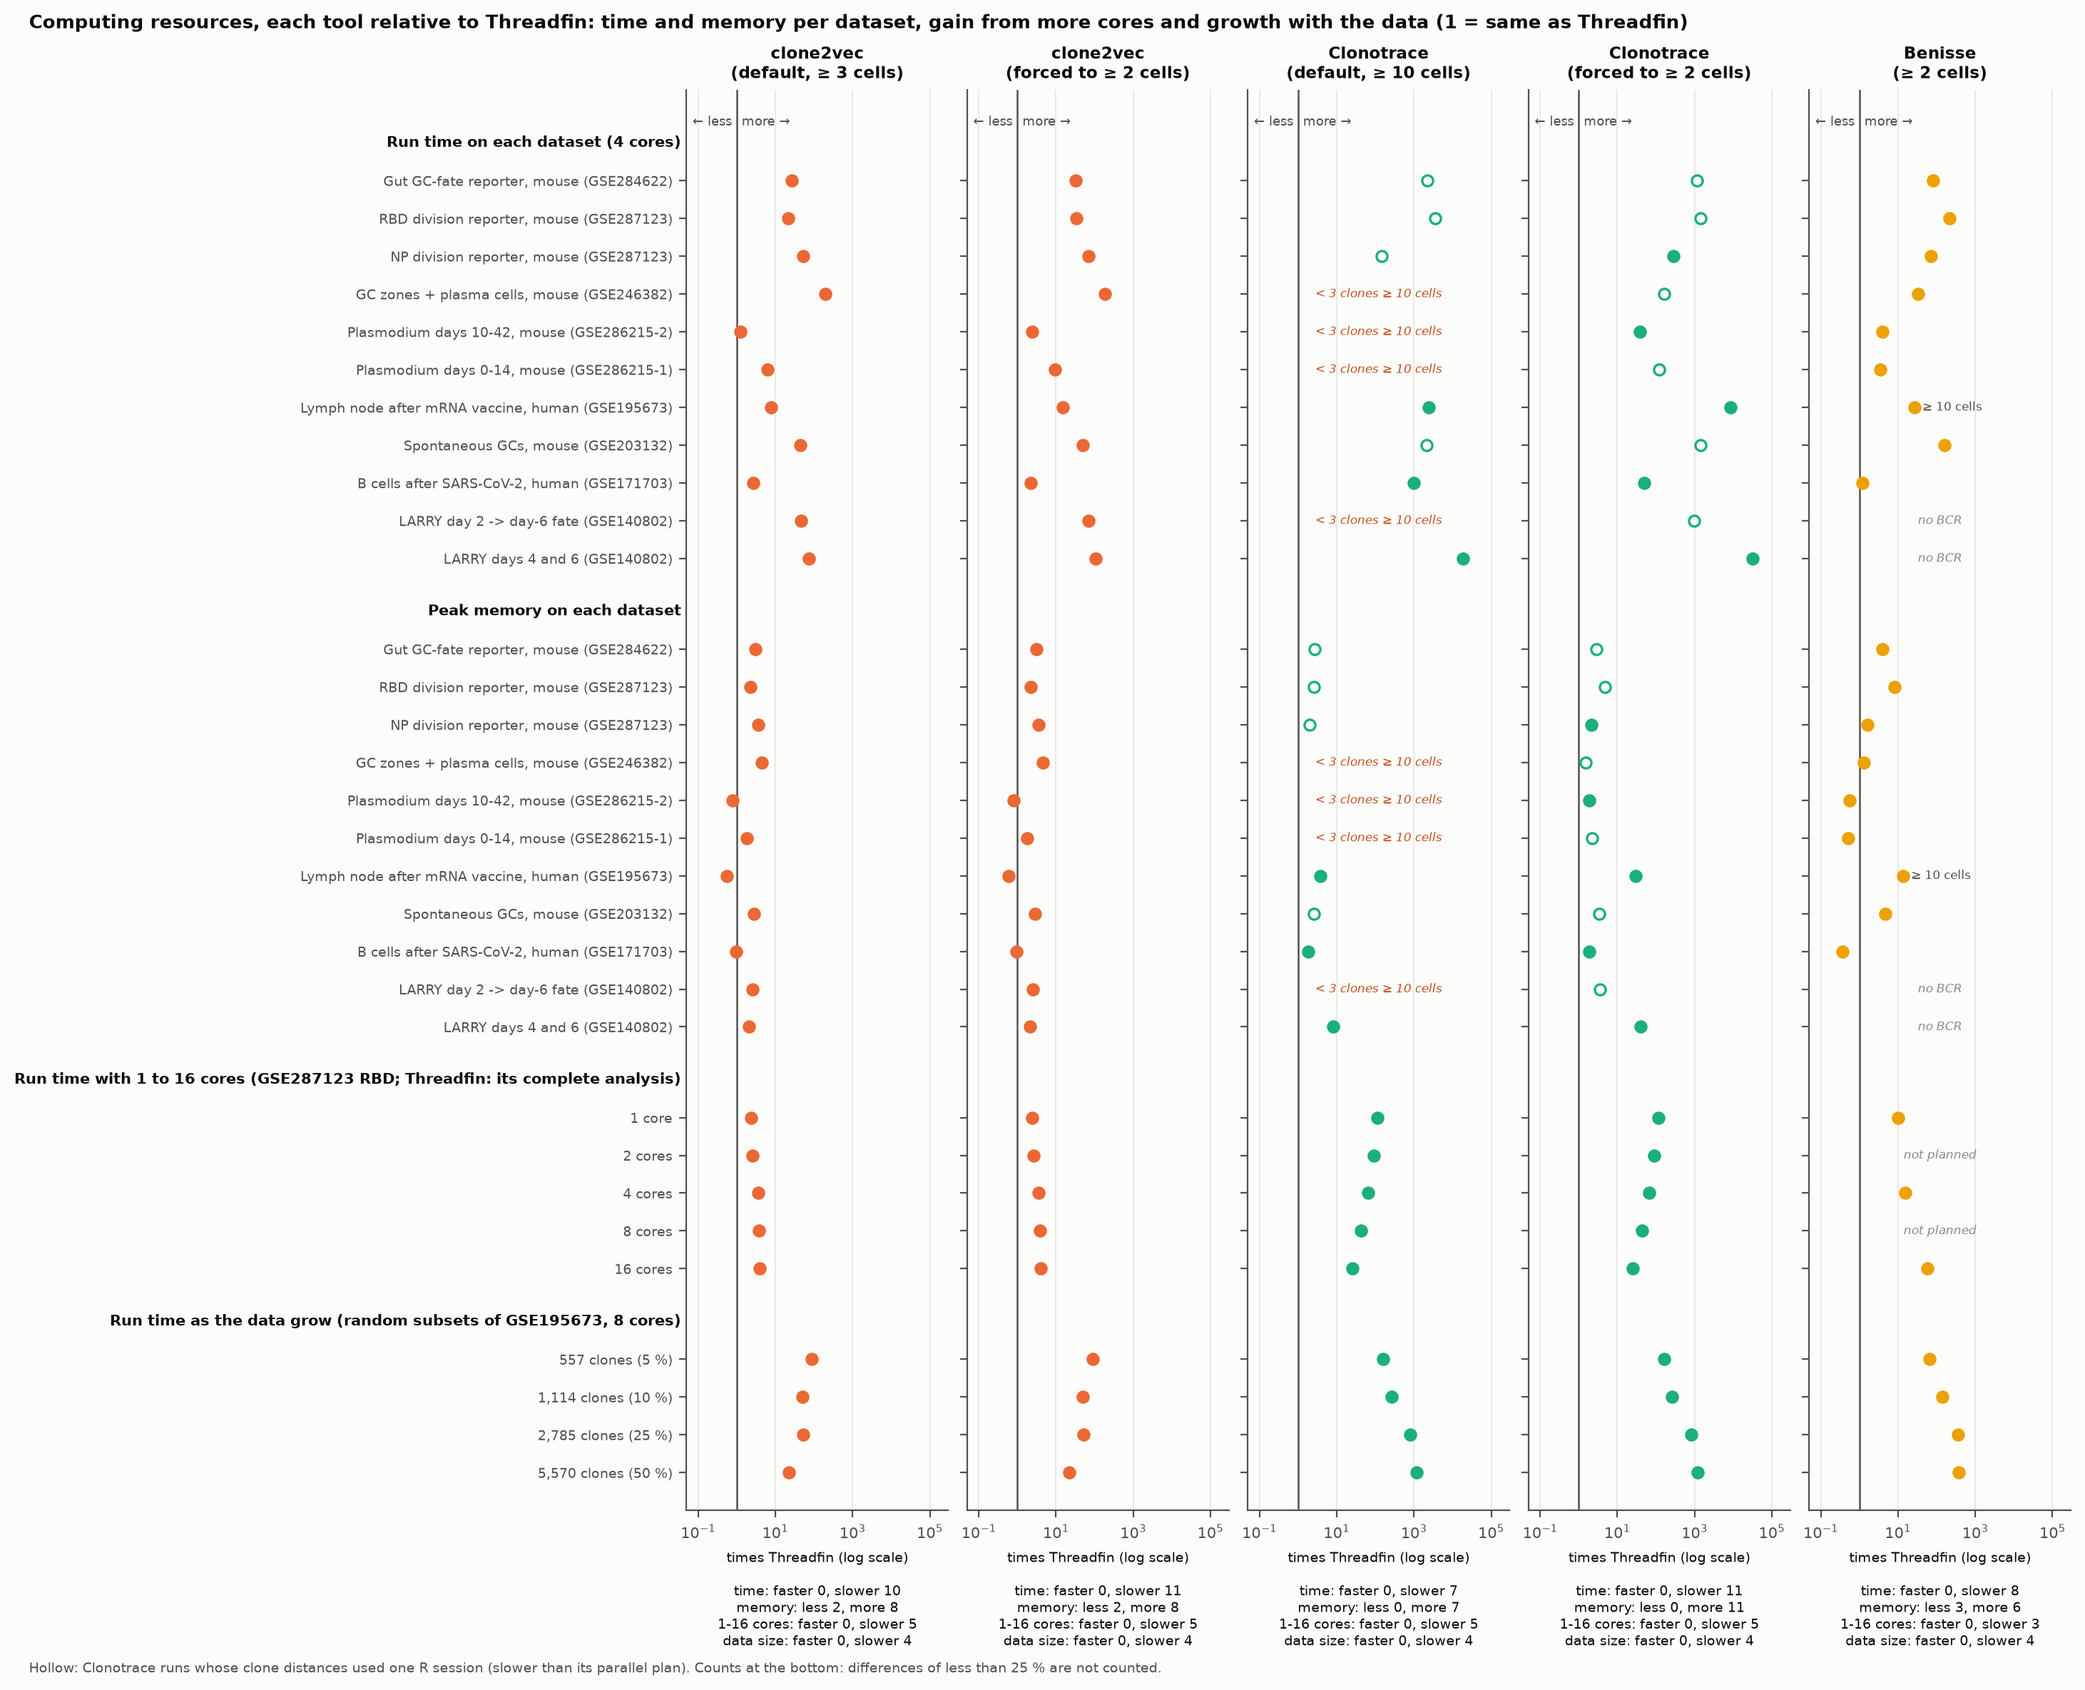
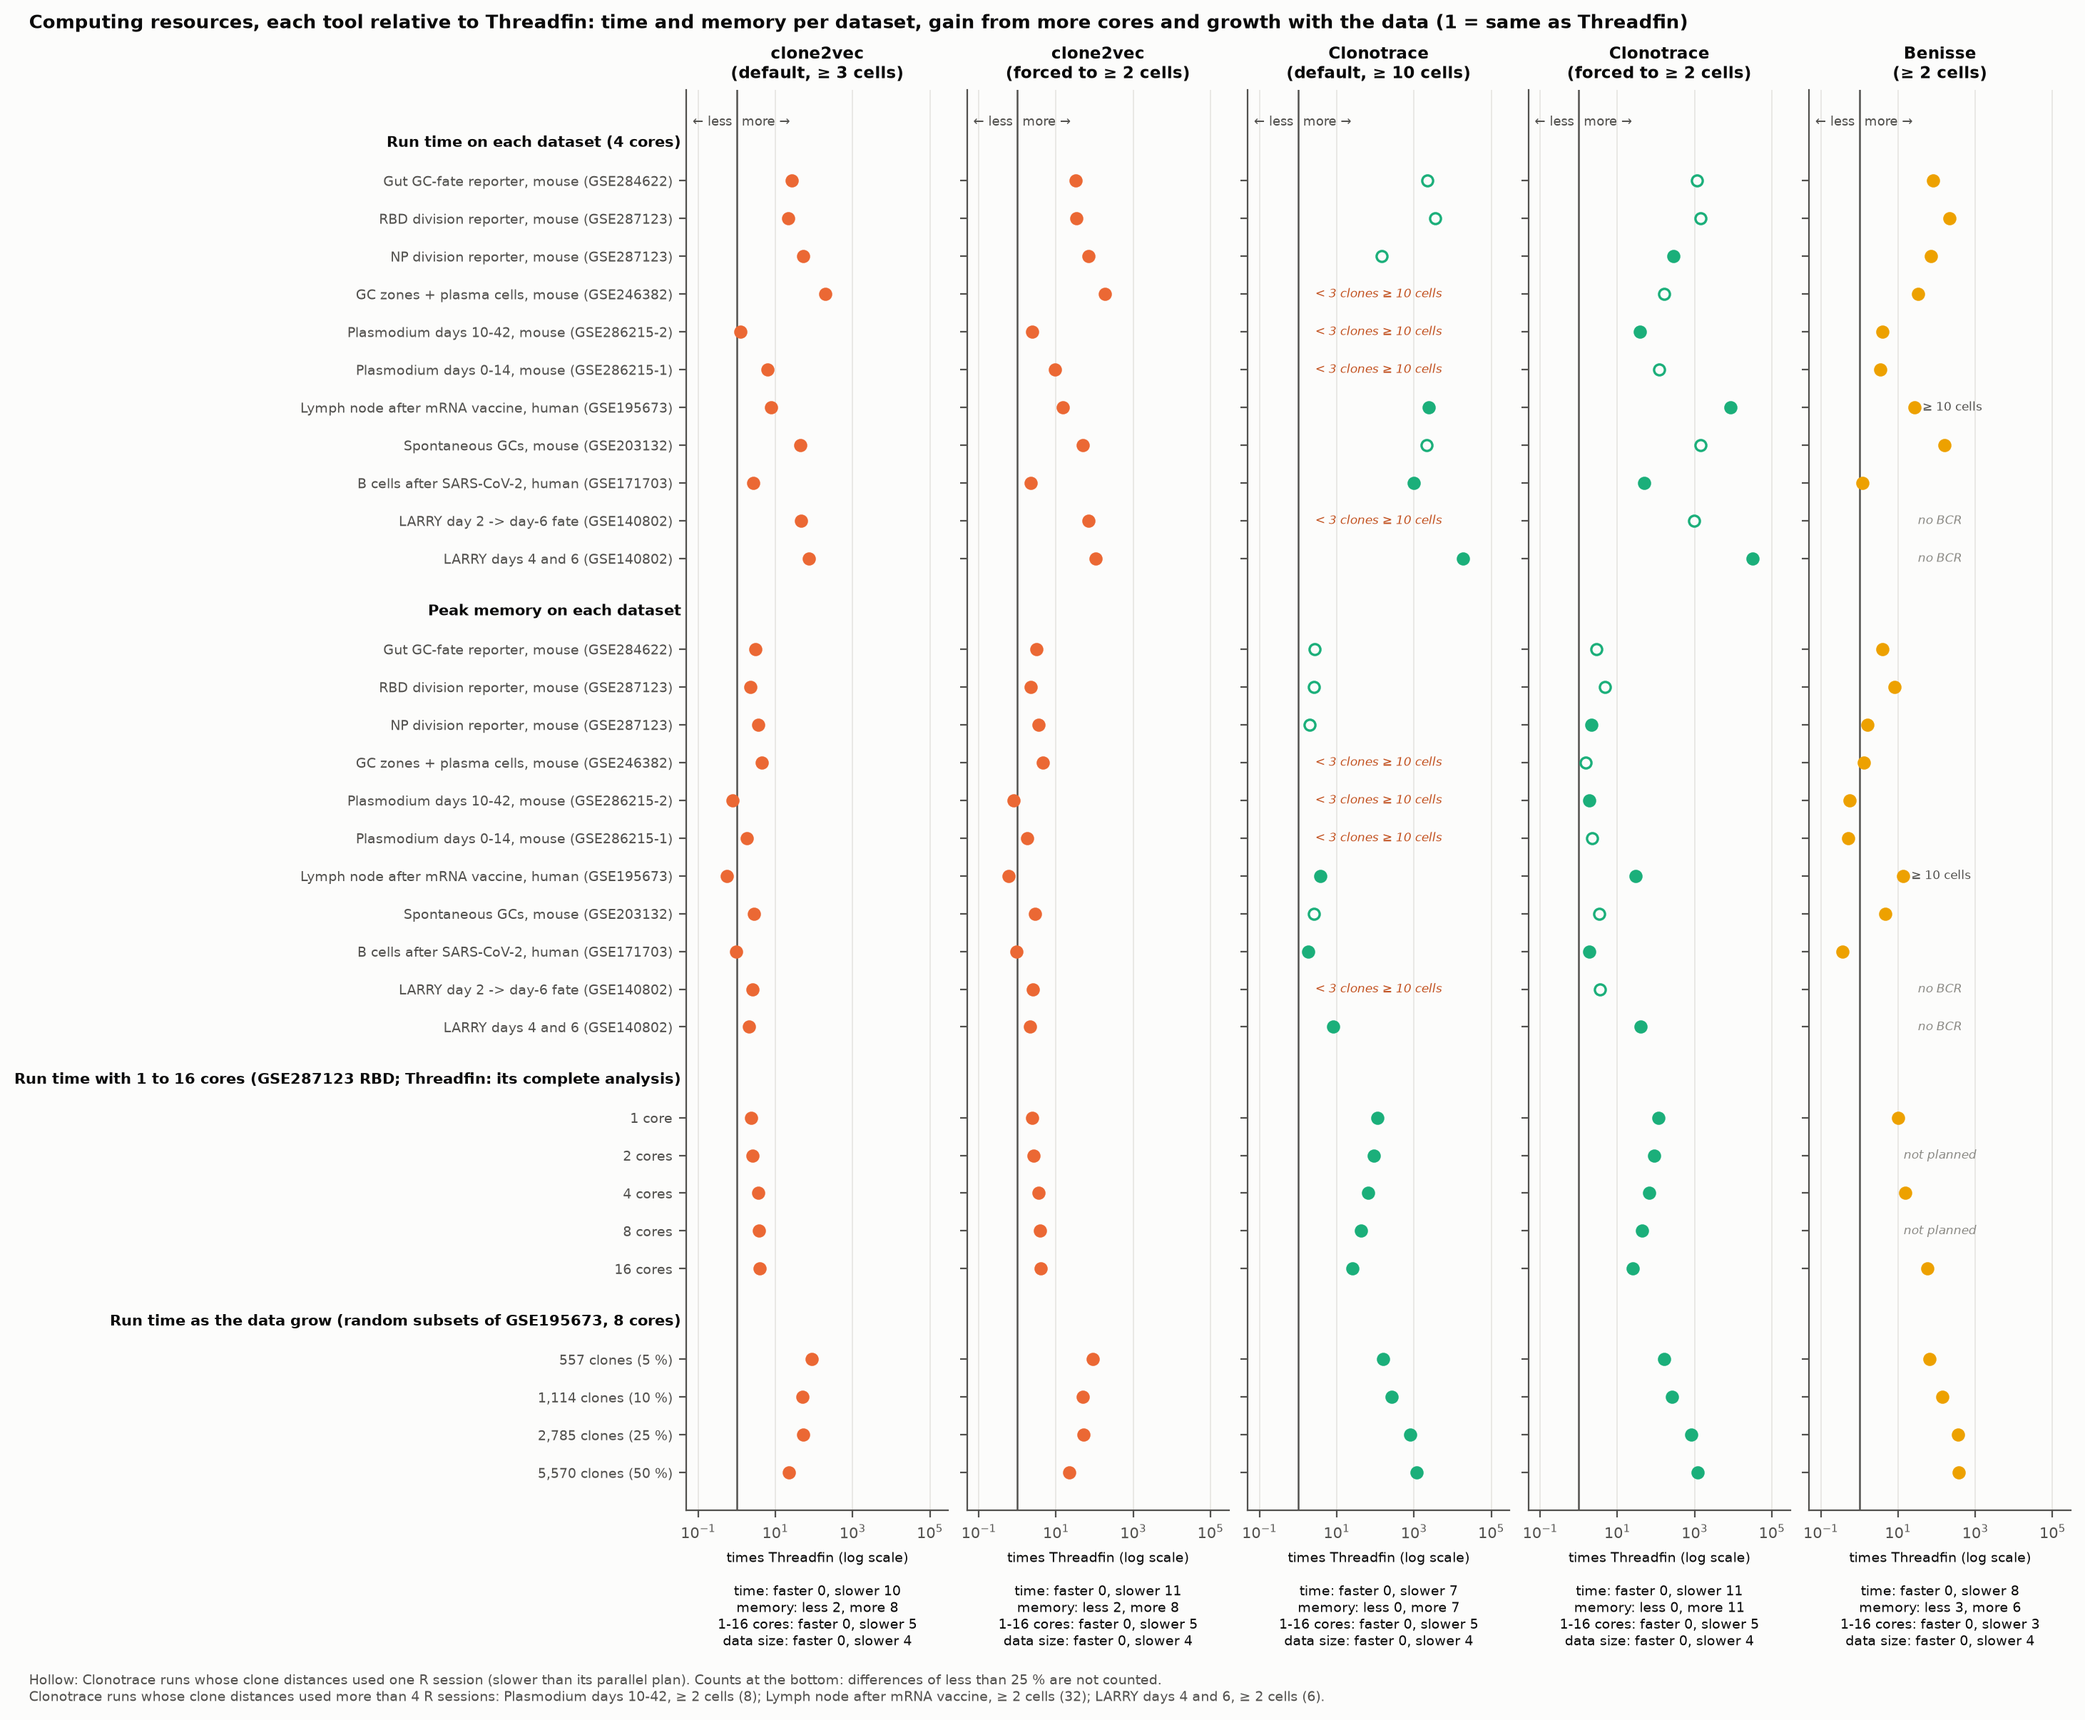
Benchmark fig11/README: name the Clonotrace runs with more than 4 R sessions
- The per-dataset run times are labelled "4 cores", but Clonotrace forced to
  >= 2 cells used 6 R sessions on LARRY days 4/6, 8 on Plasmodium days
  10-42 and 32 on GSE195673. The fig11 caption now lists these runs from
  coverage_runtime.csv, and the README runtime table says the same.
- Note on a7e7e01: the same fix also corrected run_status.csv's
  graph_k_failed_attempts column. 42 rows had held the length of a string
  (4 for "none") instead of a count. No readout uses this column.

diff --git a/manuscript/benchmarking/scripts/make_figures.py b/manuscript/benchmarking/scripts/make_figures.py
@@ -639,10 +639,16 @@ def runtime_figure():
                  "cores and growth with the data (1 = same as Threadfin)", x=0.01, ha="left", fontsize=9.5,
                  fontweight="bold")
     stopped = any(note.startswith("stopped") for _, _, cells in rows for _, note, _ in cells.values())
+    cov = read("coverage_runtime.csv")
+    many = cov[cov["method"].str.startswith("clonotrace_revised") & cov["dataset"].isin(ORDER)
+               & cov["status"].eq("completed") & cov["distance_workers"].gt(4)]
+    many = "; ".join(f"{DATASET[r.dataset].split(' (')[0].split(',')[0]}, ≥ {10 if r.method.endswith('min10') else 2} "
+                     f"cells ({int(r.distance_workers)})" for r in many.itertuples())
     fig.text(0.01, -0.01, "Hollow: Clonotrace runs whose clone distances used one R session (slower than its parallel "
              "plan). Counts at the bottom: differences of less than 25 % are not counted."
-             + (" A run stopped at 72 h is drawn at 72 h; the arrow marks a lower bound." if stopped else ""),
-             fontsize=7, color=INK2)
+             + (" A run stopped at 72 h is drawn at 72 h; the arrow marks a lower bound." if stopped else "")
+             + (f"\nClonotrace runs whose clone distances used more than 4 R sessions: {many}." if many else ""),
+             fontsize=7, color=INK2, va="top")
     save(fig, "fig11_runtime_memory.png")
 
 

diff --git a/manuscript/benchmarking/README.md b/manuscript/benchmarking/README.md
@@ -175,7 +175,7 @@ What this means for the manuscript is in section 7 and in [`../README.md`](../RE
 
 <!-- BEGIN:status -->
 
-*Status of the full-data runs when these tables were generated (2026-10-27 21:13, Melbourne time).*
+*Status of the full-data runs when these tables were generated (2026-10-27 21:23, Melbourne time).*
 
 Still running: none.
 
@@ -831,7 +831,7 @@ results and runs the clone-map search and the programme bootstrap on several cor
 
 <!-- END:threadfin_full_run -->
 
-**Clone representation per dataset** (4 cores per tool):
+**Clone representation per dataset** (4 cores per tool; Clonotrace forced to ≥ 2 cells used 6, 8 and 32 R sessions for the clone distances on LARRY days 4/6, Plasmodium days 10–42 and GSE195673):
 
 <!-- BEGIN:runtime -->
 

diff --git a/manuscript/benchmarking/results/summary_tables.md b/manuscript/benchmarking/results/summary_tables.md
@@ -2,7 +2,7 @@
 
 ## status
 
-*Status of the full-data runs when these tables were generated (2026-10-27 21:13, Melbourne time).*
+*Status of the full-data runs when these tables were generated (2026-10-27 21:23, Melbourne time).*
 
 Still running: none.
 
